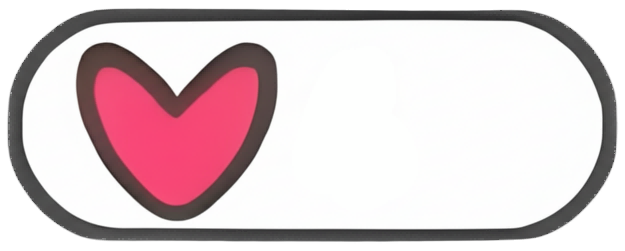
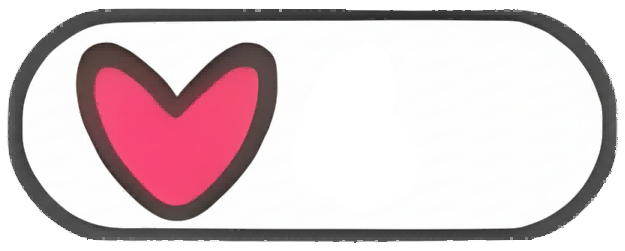
压缩图片，优化计时器

diff --git a/quiz.js b/quiz.js
@@ -2437,28 +2437,56 @@ const TYPE_META = {
       let timerStartTime = 0;
       let timerInterval = null;
       let totalElapsedTime = 0;
+      let timerPaused = false; // 新增：计时器暂停状态
 
       // 计时器函数
       function startTimer() {
-        timerStartTime = Date.now();
-        timerInterval = setInterval(updateTimer, 1000);
+        if (timerPaused) {
+          // 如果是从暂停状态恢复，重新设置开始时间
+          timerStartTime = Date.now();
+          timerPaused = false;
+        } else {
+          timerStartTime = Date.now();
+        }
+        if (!timerInterval) {
+          timerInterval = setInterval(updateTimer, 1000);
+        }
+      }
+
+      function pauseTimer() {
+        if (timerInterval && !timerPaused) {
+          totalElapsedTime += Date.now() - timerStartTime;
+          timerPaused = true;
+        }
+      }
+
+      function resumeTimer() {
+        if (timerPaused) {
+          timerStartTime = Date.now();
+          timerPaused = false;
+        }
       }
 
       function stopTimer() {
         if (timerInterval) {
           clearInterval(timerInterval);
           timerInterval = null;
-          totalElapsedTime += Date.now() - timerStartTime;
+          if (!timerPaused) {
+            totalElapsedTime += Date.now() - timerStartTime;
+          }
+          timerPaused = false;
         }
       }
 
       function resetTimer() {
         stopTimer();
         totalElapsedTime = 0;
+        timerPaused = false;
         timerEl.textContent = '00:00';
       }
 
       function updateTimer() {
+        if (timerPaused) return; // 暂停时不更新显示
         const currentElapsed = totalElapsedTime + (Date.now() - timerStartTime);
         const seconds = Math.floor(currentElapsed / 1000);
         const minutes = Math.floor(seconds / 60);
@@ -2608,7 +2636,7 @@ const TYPE_META = {
             // 图片已预加载，直接显示
             questionView.innerHTML = `<img src="${q.promptImage}" alt="${alt}" class="quiz-card-image"/>`;
           } else {
-            // 显示加载占位符
+            // 显示加载占位符并暂停计时器
             questionView.innerHTML = `
               <div class="image-placeholder">
                 <div class="loading-spinner"></div>
@@ -2616,10 +2644,15 @@ const TYPE_META = {
               </div>
             `;
             
+            // 暂停计时器
+            pauseTimer();
+            
             // 异步加载图片
             imagePreloader.preloadImage(q.promptImage).then((img) => {
               if (img && current === q) { // 确保还是当前题目
                 questionView.innerHTML = `<img src="${q.promptImage}" alt="${alt}" class="quiz-card-image"/>`;
+                // 图片加载完成，恢复计时器
+                resumeTimer();
               }
             }).catch((error) => {
               if (current === q) { // 确保还是当前题目
@@ -2629,6 +2662,8 @@ const TYPE_META = {
                     <div class="error-text">图片加载失败</div>
                   </div>
                 `;
+                // 即使加载失败也要恢复计时器
+                resumeTimer();
               }
             });
           }
